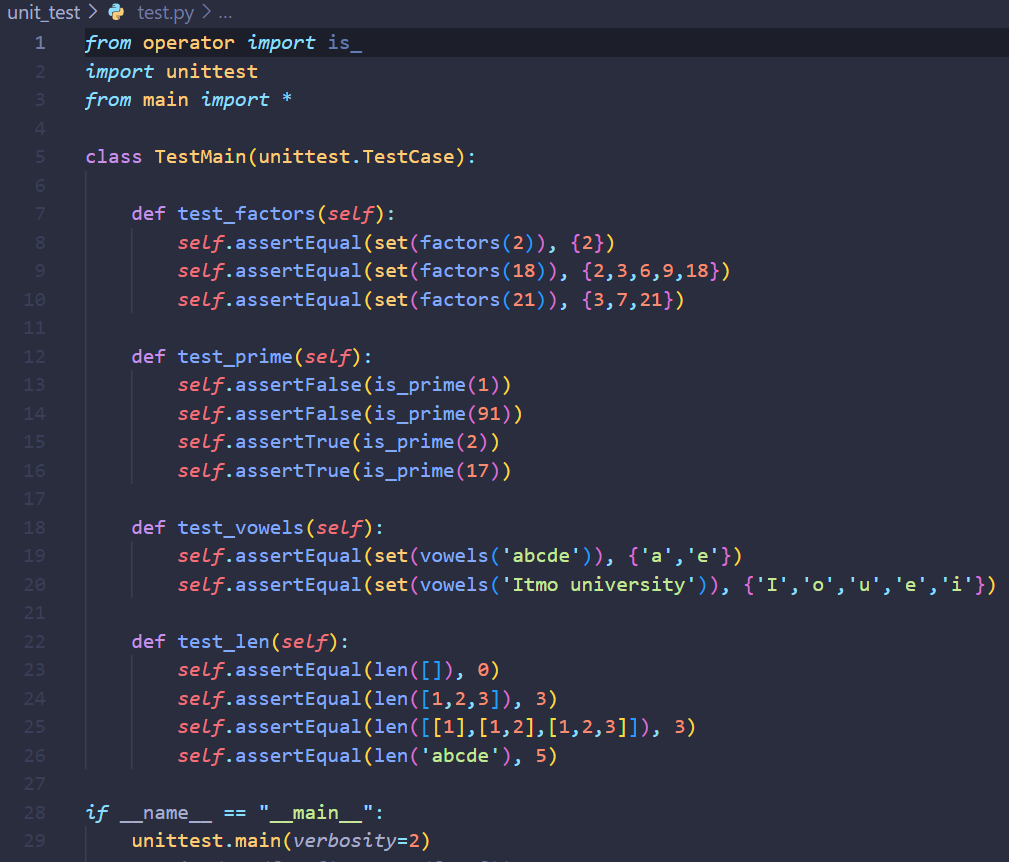
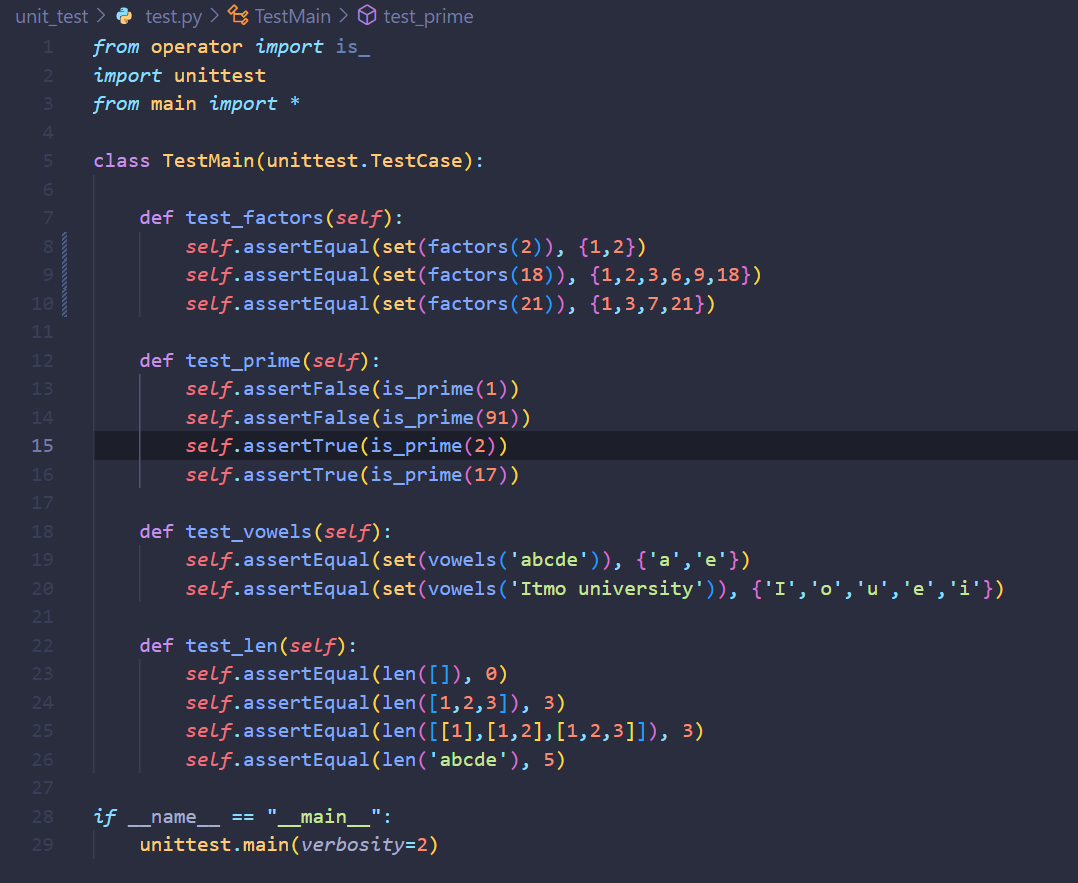
fix unit_test

diff --git a/unit_test/test.py b/unit_test/test.py
@@ -5,9 +5,9 @@ from main import *
 class TestMain(unittest.TestCase):
 
     def test_factors(self):
-        self.assertEqual(set(factors(2)), {2})
-        self.assertEqual(set(factors(18)), {2,3,6,9,18})
-        self.assertEqual(set(factors(21)), {3,7,21})
+        self.assertEqual(set(factors(2)), {1,2})
+        self.assertEqual(set(factors(18)), {1,2,3,6,9,18})
+        self.assertEqual(set(factors(21)), {1,3,7,21})
 
     def test_prime(self):
         self.assertFalse(is_prime(1))
